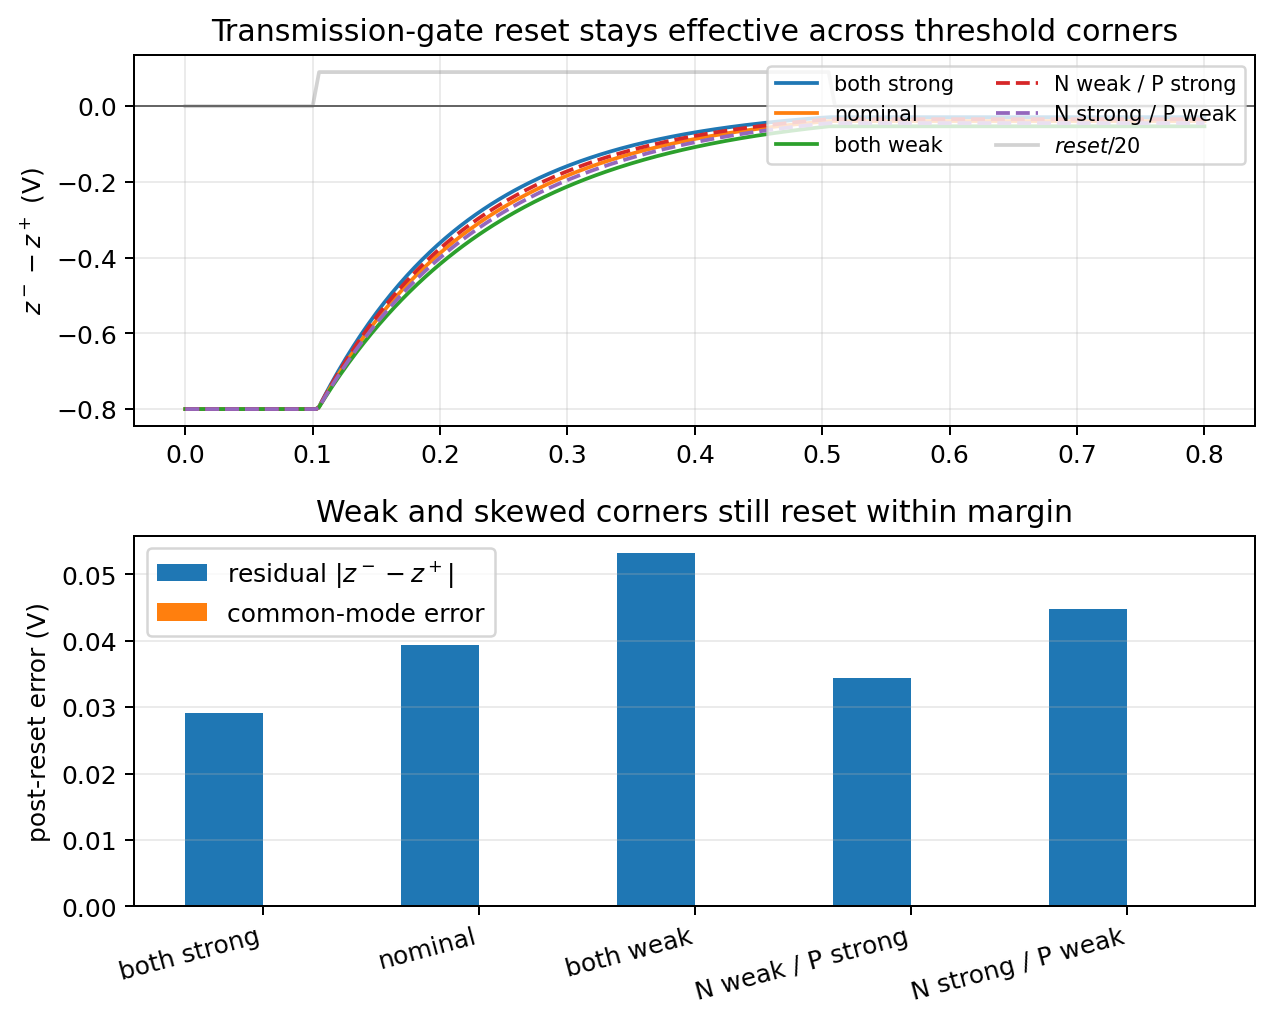
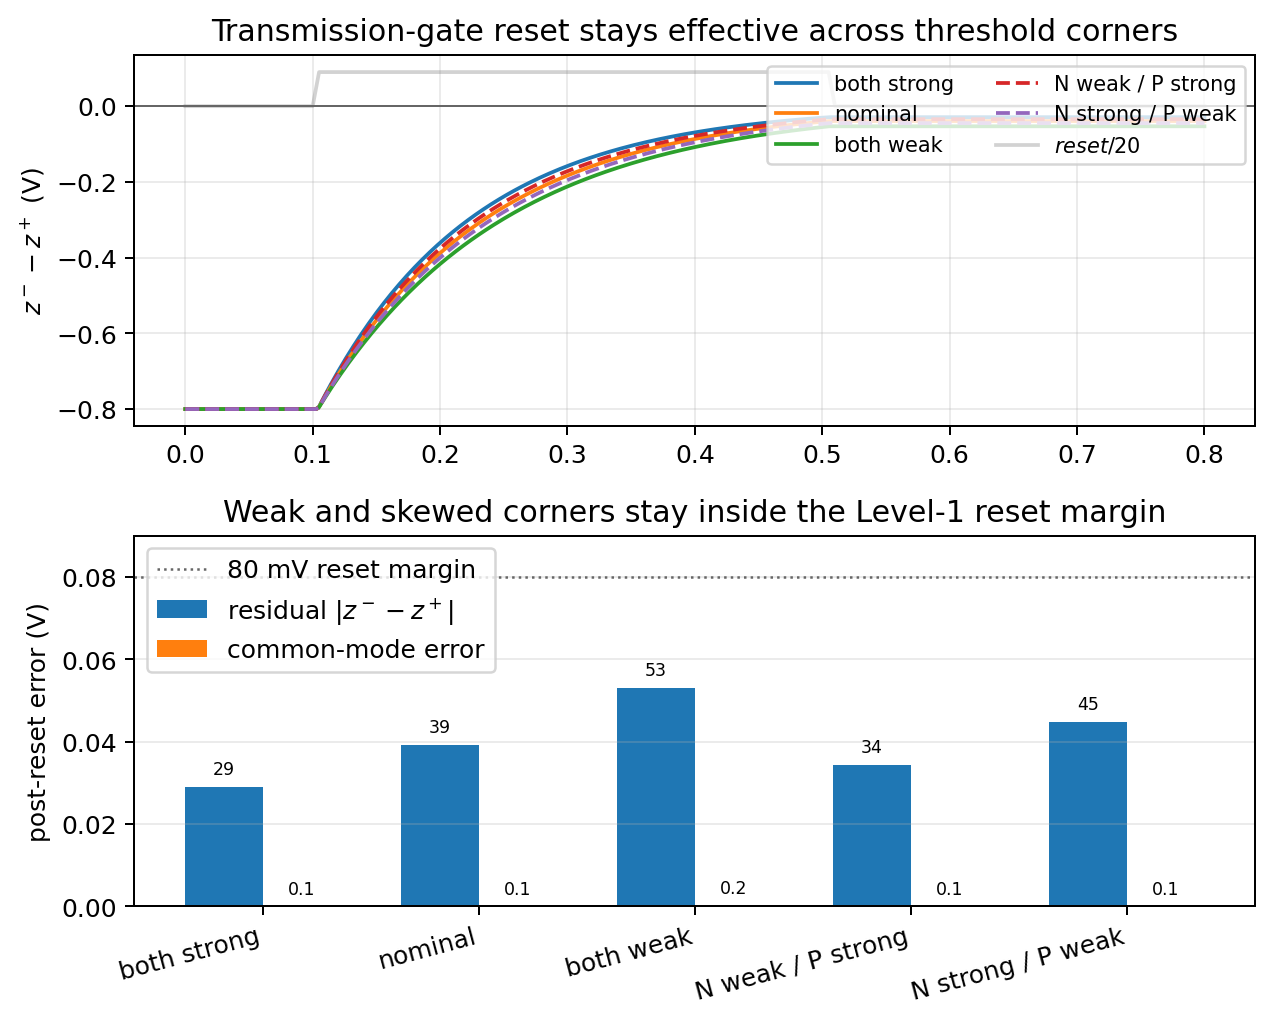
Clarify MOS reset mismatch margin

diff --git a/spice/run_mos_cell_characterization.py b/spice/run_mos_cell_characterization.py
@@ -16092,10 +16092,15 @@ quit
     xpos = np.arange(len(labels))
     mismatch_axes[1].bar(xpos - 0.18, mismatch_residual, width=0.36, label="residual $|z^- - z^+|$")
     mismatch_axes[1].bar(xpos + 0.18, np.abs(mismatch_common - 0.9), width=0.36, label="common-mode error")
+    mismatch_axes[1].axhline(0.08, color="0.4", linestyle=":", linewidth=1.0, label="80 mV reset margin")
     mismatch_axes[1].set_xticks(xpos)
     mismatch_axes[1].set_xticklabels(labels, rotation=15, ha="right")
     mismatch_axes[1].set_ylabel("post-reset error (V)")
-    mismatch_axes[1].set_title("Weak and skewed corners still reset within margin")
+    mismatch_axes[1].set_title("Weak and skewed corners stay inside the Level-1 reset margin")
+    mismatch_axes[1].set_ylim(0.0, max(0.09, 1.20 * float(np.max(mismatch_residual))))
+    for x, residual, cm_error in zip(xpos, mismatch_residual, np.abs(mismatch_common - 0.9)):
+        mismatch_axes[1].text(x - 0.18, residual + 0.002, f"{1e3 * residual:.0f}", ha="center", va="bottom", fontsize="x-small")
+        mismatch_axes[1].text(x + 0.18, cm_error + 0.002, f"{1e3 * cm_error:.1f}", ha="center", va="bottom", fontsize="x-small")
     mismatch_axes[1].grid(True, axis="y", alpha=0.25)
     mismatch_axes[1].legend(loc="upper left")
     mismatch_fig.tight_layout()

diff --git a/engineering_log.md b/engineering_log.md
@@ -2,6 +2,14 @@
 
 ## 2026-05-25
 
+- Re-ran the complete `spice/run_mos_cell_characterization.py` ngspice suite
+  from source; all current MOS component assertions passed and the tracked
+  figures regenerated reproducibly.  While auditing the basic component
+  contact sheets, the reset threshold-corner plot was technically correct but
+  visually ambiguous: \(29/39/53/34/45\) mV post-reset residues looked large
+  without the asserted \(80\) mV Level-1 reset budget.  The regenerated
+  `mos_reset_mismatch_ngspice` figure now draws that margin and labels the bar
+  values directly, while keeping the circuit unchanged.
 - Family-completed the quadrant-plot readability fix for the integrated hybrid
   local-feature evidence.  The one-level hidden-writer quadrant plot already
   had an explicit final-value panel, but the deeper integrated
